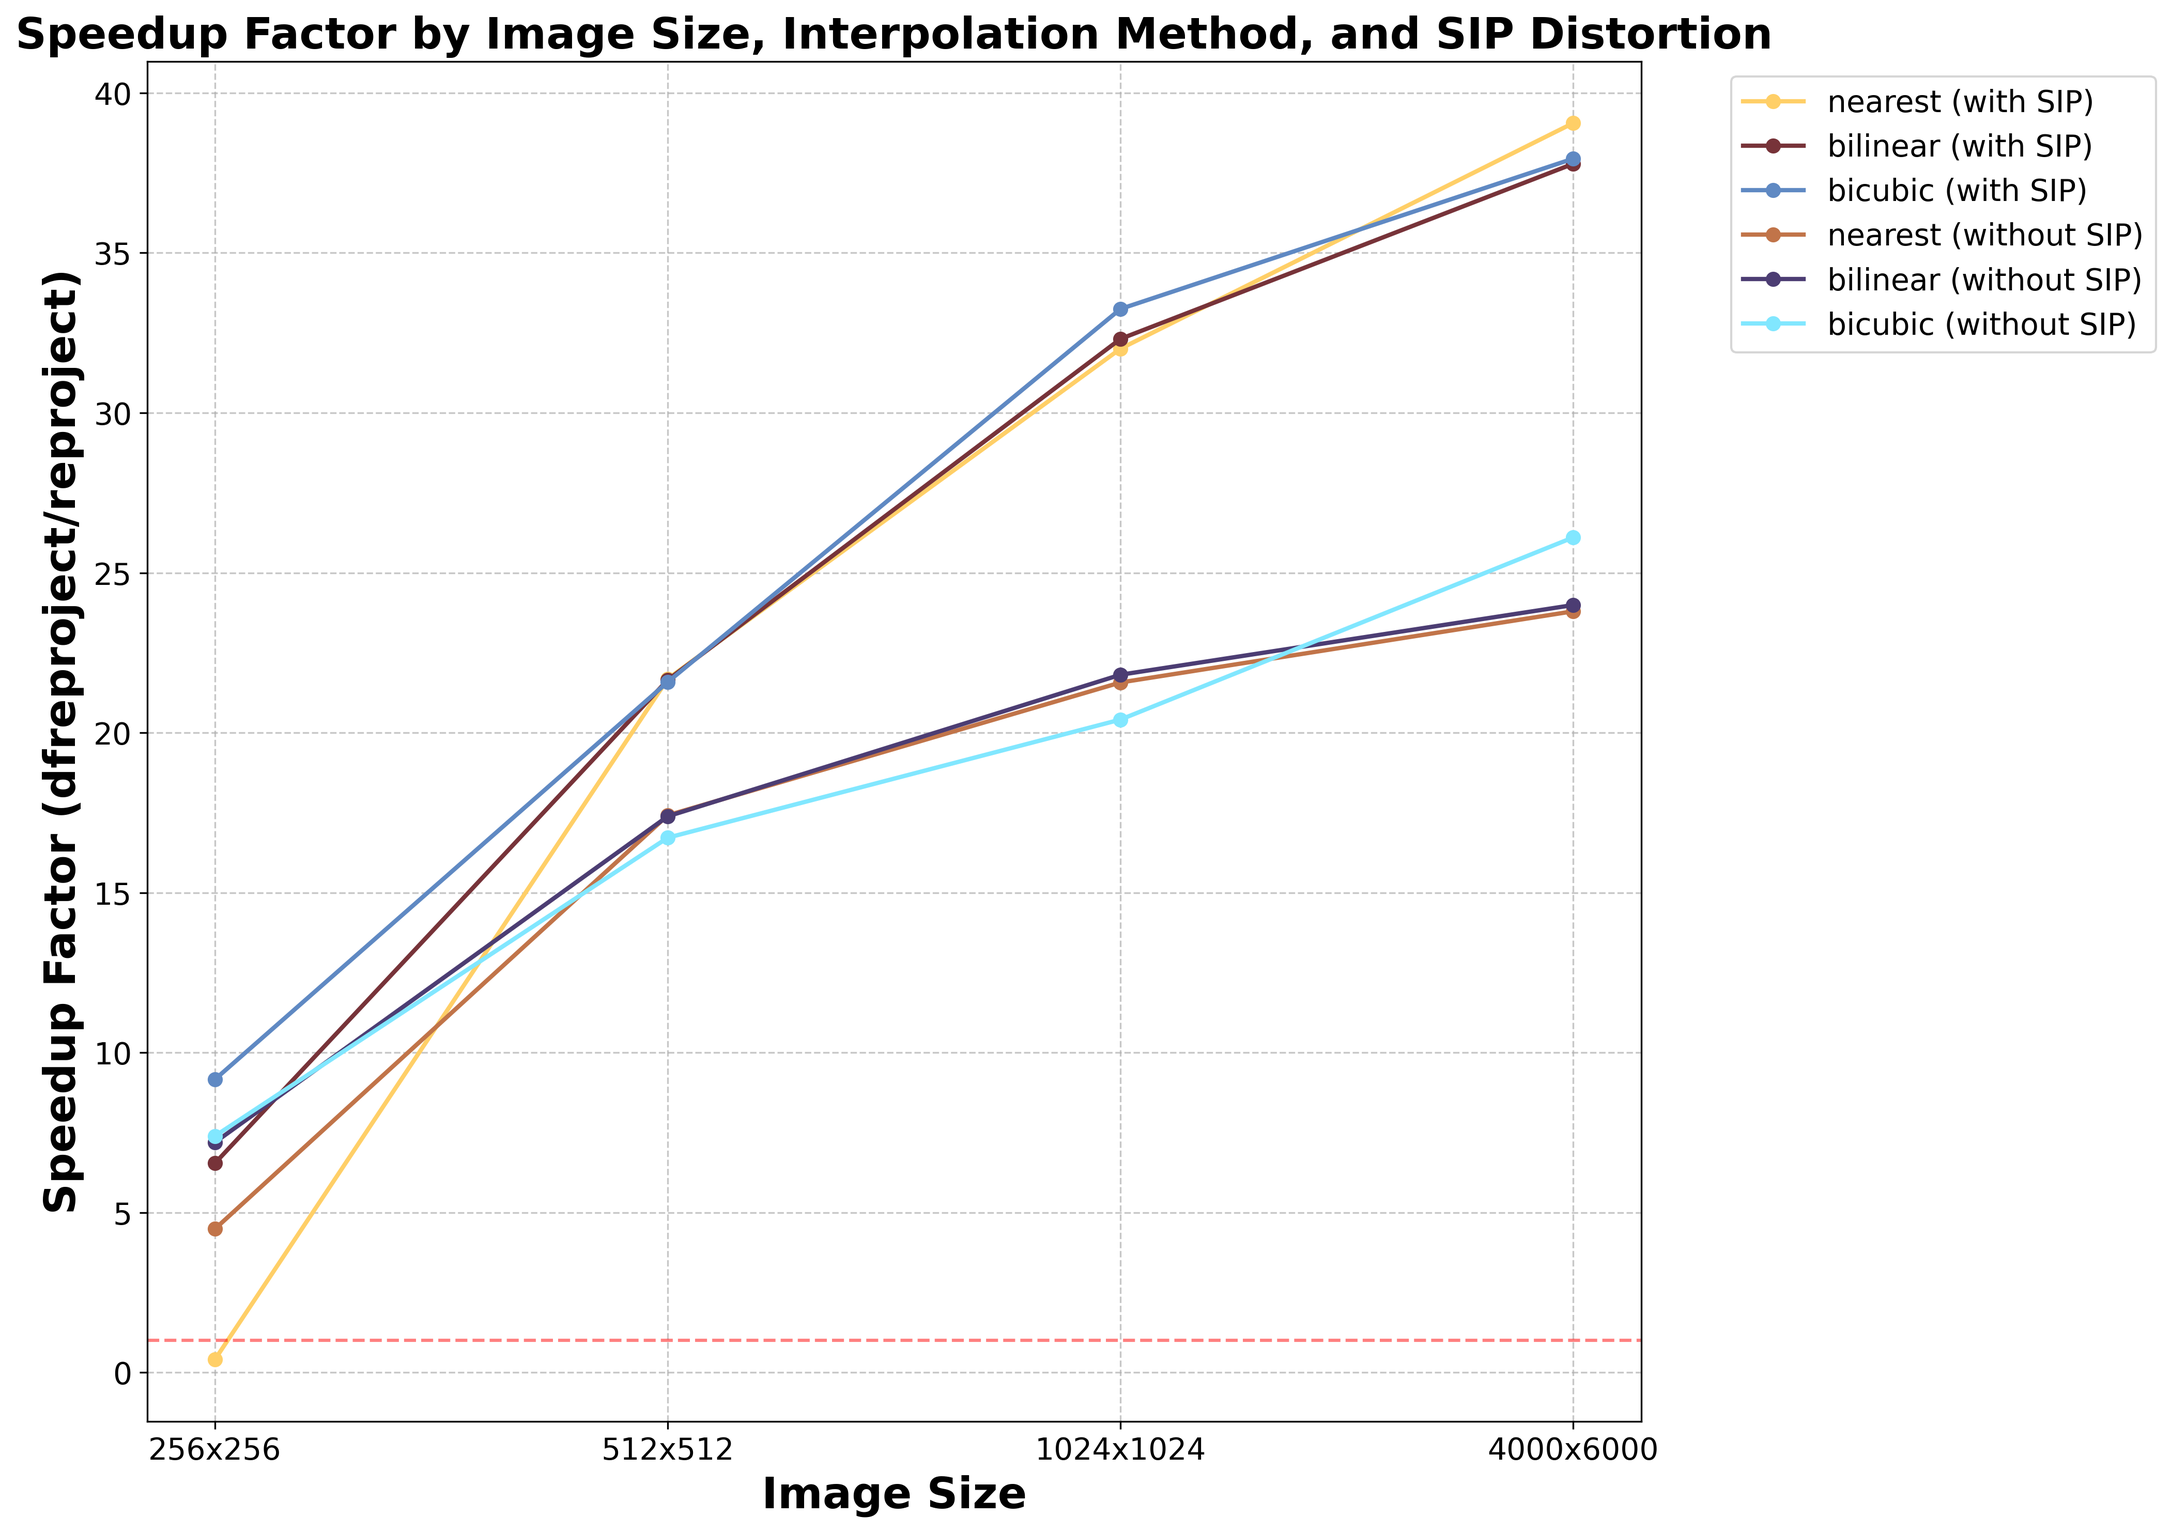
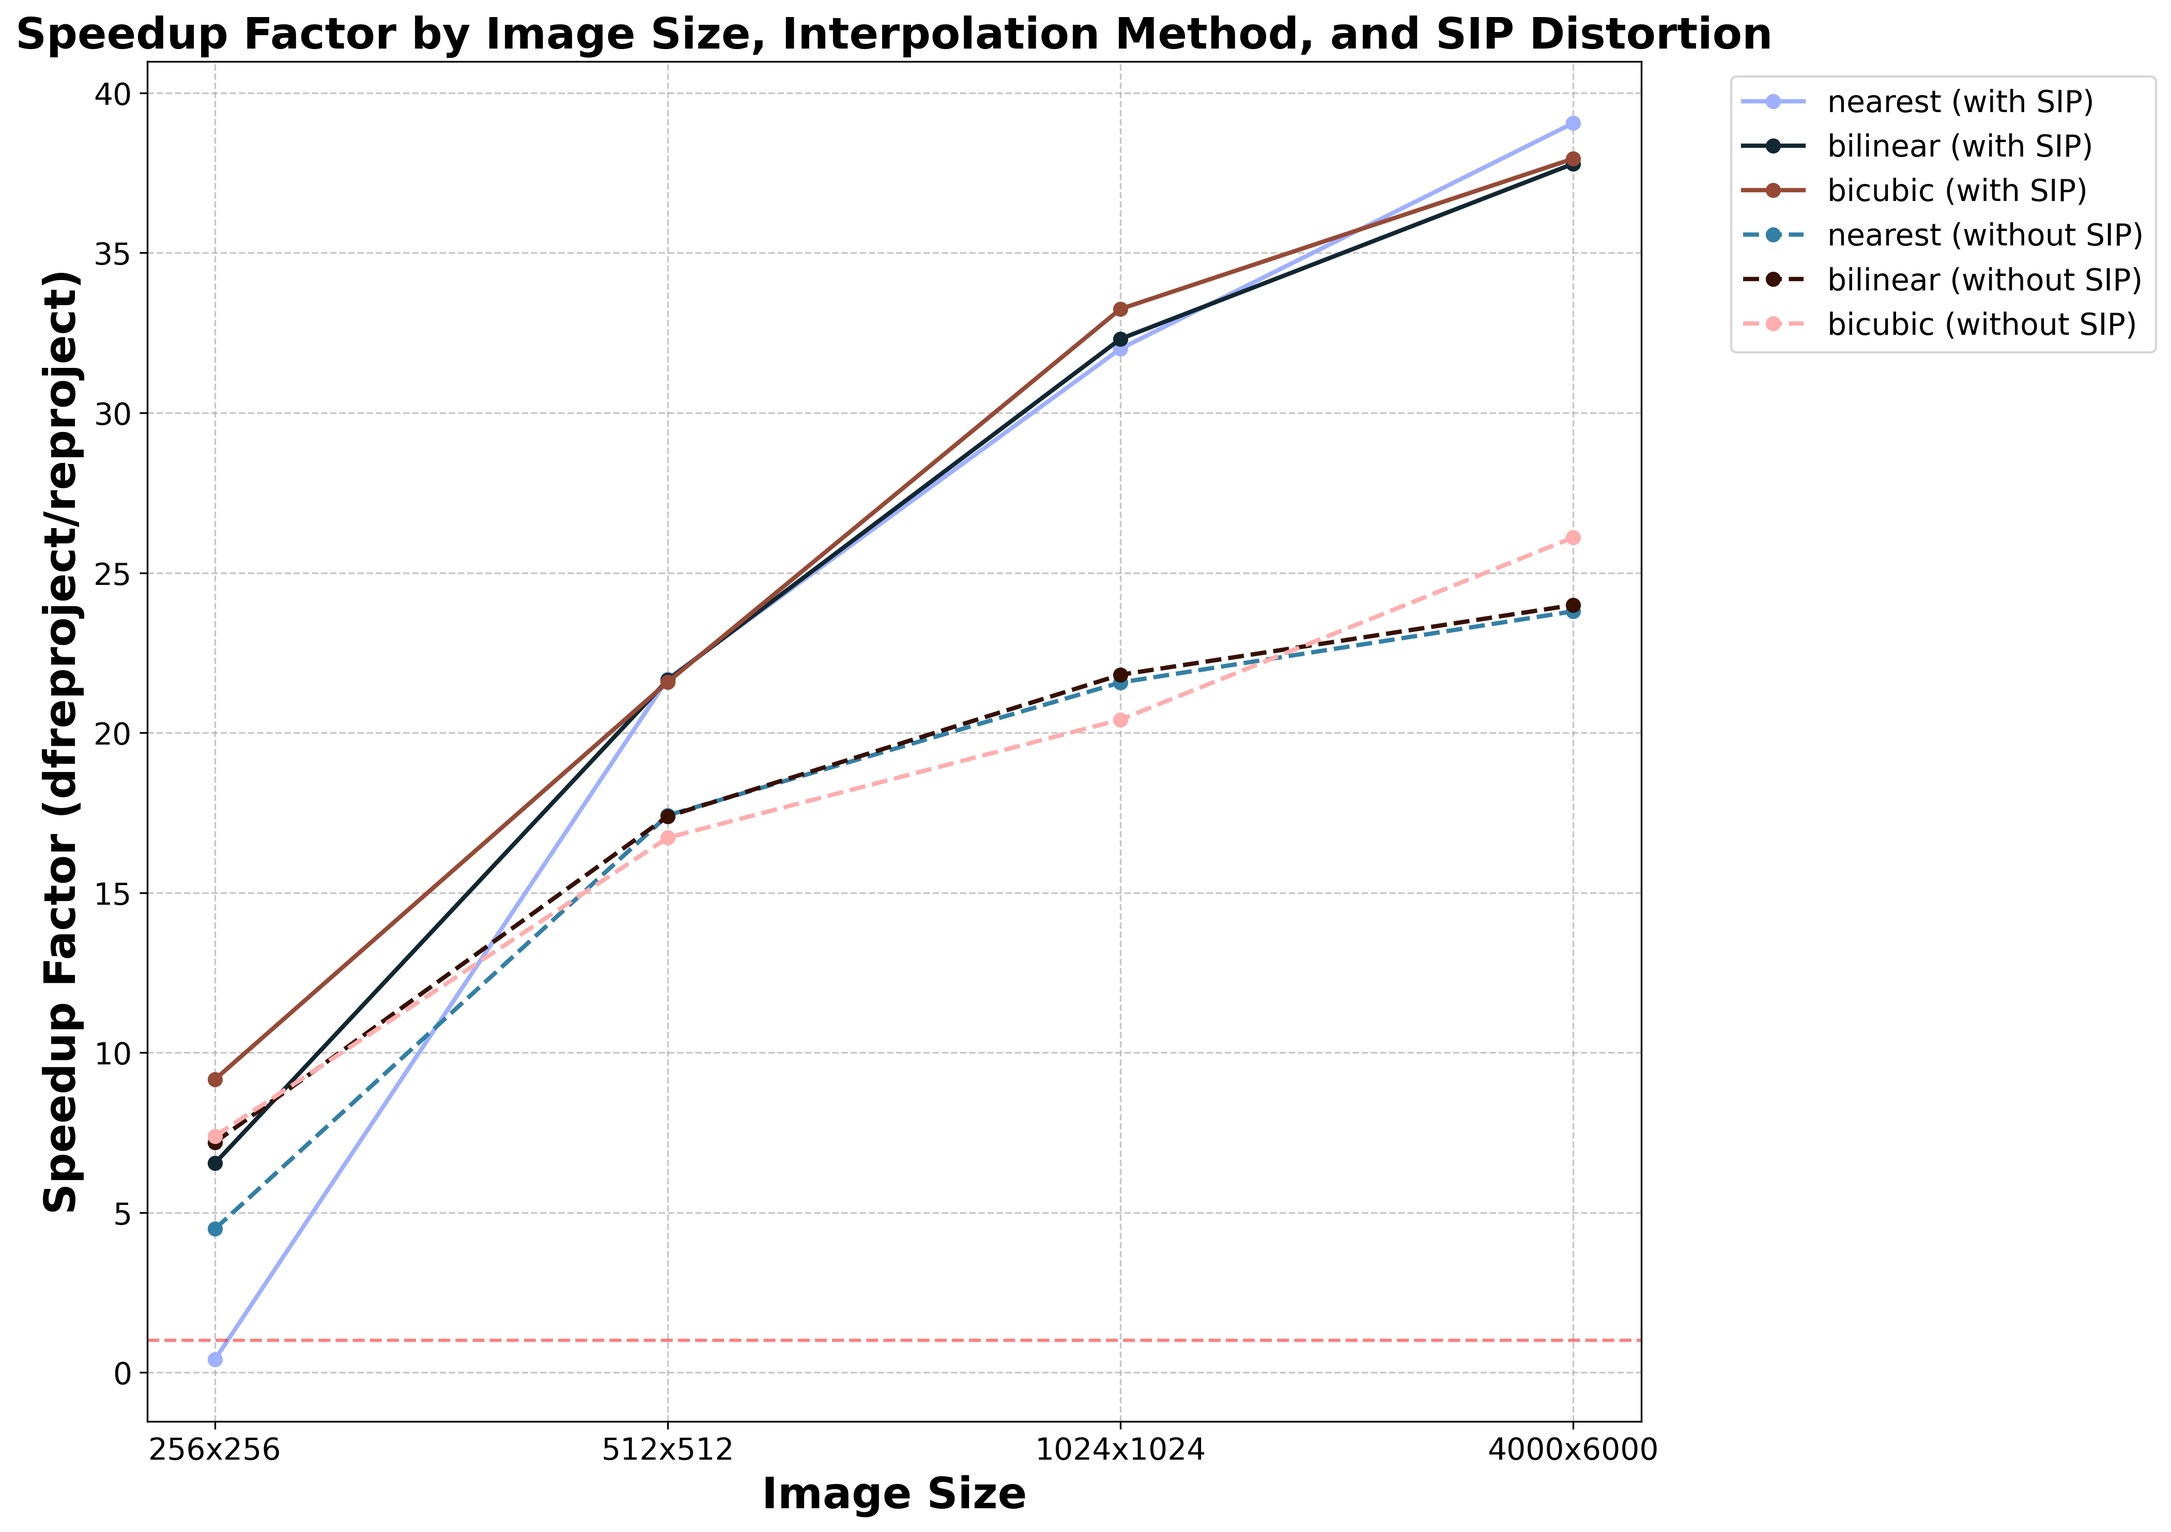
Update paper

diff --git a/demo/benchmarking/benchmark-plotter.py b/demo/benchmarking/benchmark-plotter.py
@@ -176,7 +176,7 @@ def plot_sip_comparison(df, output_file_prefix='sip_comparison'):
     plt.figure(figsize=(12, 8))
     # Convert the colormap to a list of colors for the number of SIP categories
     n_colors = len(df['SIP'].unique())
-    colors = [cmc.managua(i / (n_colors - 1) if n_colors > 1 else 0.5) for i in range(n_colors)]
+    colors = [cmc.batlow(i / (n_colors - 1) if n_colors > 1 else 0.5) for i in range(n_colors)]
     sns.boxplot(x='Interpolation', y='Speedup', hue='SIP', data=df, palette=colors)
     plt.axhline(y=1, color='r', linestyle='--', alpha=0.5)
     plt.title('Distribution of Speedup by Interpolation Method and SIP')
@@ -188,7 +188,7 @@ def plot_sip_comparison(df, output_file_prefix='sip_comparison'):
     # 3. Line plot with SIP as groups
     plt.figure(figsize=(14, 10))
 
-    interp_line_styles = ['-', '--', '-.']
+    interp_line_styles = ['-', '--']
     # Create a grouped line plot for each SIP + interpolation combination
     for sip in df['SIP'].unique():
         sip_data = df[df['SIP'] == sip]
@@ -212,8 +212,8 @@ def plot_sip_comparison(df, output_file_prefix='sip_comparison'):
             plt.plot(filter_data['Image Size'], filter_data['Speedup'], 
                     marker='o', linewidth=2, 
                     label=f"{interp} ({sip})",
-                    color=cmc.managua(color_idx),)
-                     # linestyle=interp_line_styles[interp_idx])
+                    color=cmc.berlin(color_idx),
+                     linestyle=interp_line_styles[sip_idx])
     plt.xticks(fontsize=14)
     plt.yticks(fontsize=14)
     # plt.ylim(3, 50)

diff --git a/paper.md b/paper.md
@@ -12,7 +12,8 @@ authors:
   - name: Pieter Van Dokkum
     equal-contrib: false # (This is how you can denote equal contributions between multiple authors)
     affiliation: 1
-  - name: Steven Janssens
+  - name: Steven R. Janssens
+    orcid: 0000-0003-0327-3322
     affiliation: 1
   - name: Imad Pasha
     affiliation: 1
@@ -30,26 +31,31 @@ bibliography: dfreproject.bib
 ---
 
 # Summary
-Complete astronomical images generally consist of several, if not hundreds, of individual exposures. Each exposure is taken at 
+Coadded astronomical images generally consist of several, if not hundreds, of individual exposures. Each exposure is taken at 
 a different time with minute differences in the positions of stars and other objects in the field due to the movement of the celestial bodies and changes/imperfections in the lense.
-In order to combine, or stack, individual exposures it is required to ensure that each exposure is properly aligned. 
-Traditionally, this is done by reprojecting each exposure onto a common target grid defined in World Coordinate System (WCS).  
+In order to combine individual exposures it is required to ensure that each exposure is properly aligned. 
+Traditionally, this is done by reprojecting each exposure onto a common target grid defined in a World Coordinate System (WCS). 
+
 In this package, we constructed functions that breakdown the coordinate transformations using Gnomonic projection to define 
 the pixel-by-pixel shift from the source plane to the target plane. Additionally, we provide the requisite tools for interpolating the source image onto the target plane.
 With a single function call, the user is able to calculate the complete reprojection of the source image onto the target plane.
 This module follows the FITS and SIP formats layed out in the following papers: [@greisen_representations_2002], [@calabretta_representations_2002], and [@shupe_sip_2005].
-
+We report a speedup of up to 40X when run on a GPU and 15X when run on a CPU compared to common alternatives.
 
 # Statement of need
 
-`dfreproject` is a Python package developed using `PyTorch` [@paszke_pytorch_2019] as the computational backbone for astronomical image reprojection.
-This package was developed out of a need for a fast reprojection code that did not rely on pre-existing WCS calculations (such as those found in `astropy` or `WCSLIB`; [@astropy_collaboration_astropy_2013; @astropy_collaboration_astropy_2018; @astropy_collaboration_astropy_2022]).
+`dfreproject` is a Python package for astronomical image reprojection using `PyTorch` [@paszke_pytorch_2019] as the computational backbone.
+This package was developed out of a need for a fast reprojection code that did not rely on pre-existing WCS calculations such as those found in `astropy` or `WCSLIB` [@astropy_collaboration_astropy_2013; @astropy_collaboration_astropy_2018; @astropy_collaboration_astropy_2022].
 We do however use `astropy.wcs` to read the header information from the input fits files. 
 
-Although several packages already exist for calculating and applying the reprojection of a source image onto a target plane such as 
+Several packages already exist for calculating and applying the reprojection of a source image onto a target plane such as 
 `reproject` [@robitaille_reproject_2020] or `astroalign` [@beroiz_astroalign_2020]. 
 While these packages excel at easy-to-use, general-purpose astronomical image reprojection, they function solely on CPUs and therefore can serve as a computational bottleneck in data reduction pipelines.
-It was with this in mind that we developed `dfreproject`. By leveraging `PyTorch` for vectorization and parallelization via the GPU,
+It was with this in mind that we developed `dfreproject`.
+`dfreproject`'s primary purpose is to reproject the observations taken by the new version of the Dragonfly Telescopic Array, Mothra. 
+Mothra will contain 1000 individual lenses all simulataneously taking exposures with a cadence of a few minutes. 
+Therefore, it is paramount to have a fast and accurate reprojection method.
+By leveraging `PyTorch` for vectorization and parallelization via the GPU,
 we are able to achieve a considerable speedup (up to nearly 40X) over standard methods.
 
 
@@ -58,56 +64,74 @@ we are able to achieve a considerable speedup (up to nearly 40X) over standard m
 
 # Methods
 In order to reproject an image onto a new coordinate plane, we must perform three intermediate calculations. 
-To do this, we use target WCS and source WCS. The steps are as follows:
+To do this, we use the target and source WCS. 
+Before defining the steps, there are a few terms to define:
+- SIP: Standard Imaging Polynomial. This convention allows us to represent non-linear geometric distortions as a simple polynomial.
+The order and coefficients of this polynomial is stored in the header. The SIP is broken down into four individual polynomials, SIP\_A, SIP\_B, SIP\_INV\_A, and SIP\_INV\_B where
+SIP\_A defines the polynomial applied to the x-coordinates, SIP\_B defines the polynomial applied to the y-coordinates, and SIP\_INV\_A and SIP\_INV\_B define the inverse operations.
+For an in-depth discussion on SIP, please see @shupe_sip_2005.
+- CD Matrix: Coordinate Description Matrix. This is  a 2X2 matrix that encodes the rotation, skew, and scaling of the image. 
+The values are conveniently stored in the header. The CD matrix may also be constructed from the PC, Projection Coordinate, matrix multiplied by the CDELT values.
+
+The steps are as follows:
+
 1. For each pixel calculate the corresponding celestial coordinate using the target WCS
+
    1. Apply shift
+   
    2. Apply SIP distortion
+
    3. Apply CD matrix
-   4. Apply transformation to celestial coordinates uing the Gnomonic Projection
+   
+   4. Apply transformation to celestial coordinates using the Gnomonic projection
+
+
 2. Calculate the position in the source grid for each celestial coordinate. This provides the offset for the next step.
-   1. Apply the inverse transformation using the Gnomonic projecction
+
+   1. Apply the inverse transformation using the Gnomonic projection
+
    2. Apply inverse CD matrix
+
    3. Apply inverse SIP distortion
+
    4. Apply shift
+
+
 3. Interpolate the source image onto the newly calculated grid 
 
-In the final interpolation step we include local flux conservation by simulatenously projecting an identity tensor called the footprint.
+In the final interpolation step we include local flux conservation by simultaneously projecting an identity tensor called the footprint.
 The final reprojected frame is normalized by this footprint.
 
 ## Coordinate Transformation
-In this section we describe the coordinate transformation using the Gnomonic projection. Please note that we include an additional shift of 1 pixel to handle the fact that python is 0-based.
-We will be using the following definintions for values: 
+In this section we describe the coordinate transformation using the Gnomonic projection. 
+Please note that we include an additional shift of 1 pixel to handle the fact that Python is 0-based.
+We will be using the following definitions for values: 
 
 $x,y$ - pixel values
 
-$crpix_1, crpix_2$ - center pixels as defined in WCS
-
-$CD$ - CD matrix as defined in WCS. This can also be constructed from  the PC matrix using the following relation $CD = PC * CDELT$ where $CDELT=[cdelt_1, cdelt_2]$.
-
-$SIP\_A, SIP\_B$ - SIP polynomials A and B 
-
-$SIP\_INV\_A, SIP\_INV\_B$ - Inverse SIP polynomials A and B
-
-$dec_0, ra_0$ - Central Declination and Right Ascension as defined in the WCS.
+$\mathrm{crpix}_1, \mathrm{crpix}_2$ - center pixels as defined in WCS
 
 
-All trignometric functions require the values be in radians.
+$\mathrm{dec}_0, \mathrm{ra}_0$ - Central Declination and Right Ascension as defined in the WCS.
+
+
+All trigonometric functions require the values be in radians.
 
 ### To celestial coordinates
 For these calculations, we use the WCS information for the target plane.
 
-$$u = x - (crpix_1 - 1) $$
-$$v = y - (crpix_2 -1) $$
+$$u = x - (\mathrm{crpix}_1 - 1) $$
+$$v = y - (\mathrm{crpix}_2 -1) $$
 
-$$u = u - SIP\_A(u, v)$$
-$$v = v - SIP\_B(u,v)$$
+$$u = u - \mathrm{SIP\_A}(u, v)$$
+$$v = v - \mathrm{SIP\_B}(u,v)$$
 
 $$
 \begin{bmatrix}
 u' \\
 v'
 \end{bmatrix}
- = CD 
+ = \mathrm{CD}
 \begin{bmatrix}
 u \\
 v
@@ -117,19 +141,19 @@ $$r = \sqrt{u'^2 + v'^2}$$
 $$r_0 = \frac{180}{\pi}$$
 $$\phi = atan^2(-u', v')$$
 $$\theta = atan^2(r_0, r) $$
-$$dec = sin^{-1}\Big( sin(\theta)sin(dec_0) + cos(\theta)cos(dec_0)cos(\phi) \Big) $$
-$$ra = ra_0 + atan^2\Big( -cos(\theta)sin(\phi), sin(\theta)cos(dec_0)-cos(\theta)sin(dec_0)cos(\phi) \Big) $$
+$$\mathrm{dec} = \sin^{-1}\Big( \sin(\theta)\sin(dec_0) + \cos(\theta)\cos(dec_0)\cos(\phi) \Big) $$
+$$\mathrm{ra} = \mathrm{ra}_0 + \mathrm{atan}^2\Big( -\cos(\theta)\sin(\phi), \sin(\theta)\cos(dec_0)-\cos(\theta)\sin(dec_0)\cos(\phi) \Big) $$
 
 
 ### To source coordinates
-For these calcuations, we use the WCS ionformation for the source plane.
+For these calculations, we use the WCS information for the source plane.
 
-$$\Delta ra = ra - ra_0$$
-$$\phi = atan^2\Big(-cos(dec)sin(\Delta ra), sin(dec)cos(dec_0)-cos(dec)sin(dec_0)cos(\Delta ra) \Big) $$
-$$\theta = sin^{-1}\Big( sin(dec)sin(dec_0) + cos(dec)cos(dec_0)cos(\Delta ra) \Big) $$
-$$r = r_0\frac{cos(\theta)}{sin(\theta)}$$
-$$u' = -rsin(\phi) $$
-$$v' = rcos(\phi)$$
+$$\Delta \mathrm{ra} = \mathrm{ra} - \mathrm{ra}_0$$
+$$\phi = \mathrm{atan}^2\Big(-\cos(\mathrm{dec})\sin(\Delta \mathrm{ra}), \sin(\mathrm{dec})\cos(\mathrm{dec}_0)-\cos(\mathrm{dec})\sin(\mathrm{dec}_0)\cos(\Delta \mathrm{ra}) \Big) $$
+$$\theta = \sin^{-1}\Big( \sin(\mathrm{dec})\sin(\mathrm{dec}_0) + \cos(\mathrm{dec})\cos(\mathrm{dec}_0)\cos(\Delta \mathrm{ra}) \Big) $$
+$$r = r_0\frac{\cos(\theta)}{\sin(\theta)}$$
+$$u' = -r\sin(\phi) $$
+$$v' = r\cos(\phi)$$
 
 
 
@@ -138,22 +162,22 @@ $$
 u \\
 v
 \end{bmatrix}
- = CD\_INV
+ = \mathrm{CD\_INV}
 \begin{bmatrix}
 u' \\
 v'
 \end{bmatrix}
 $$
 
-$$u = u - SIP\_INV\_A(u, v)$$
-$$v = v - SIP\_INV\_B(u, v)$$
+$$u = u - \mathrm{SIP\_INV\_A}(u, v)$$
+$$v = v - \mathrm{SIP\_INV\_B}(u, v)$$
 
-$$x = u + (crpix_1 - 1)$$
-$$y = v + (crpix_2 - 1)$$
+$$x = u + (\mathrm{crpix}_1 - 1)$$
+$$y = v + (\mathrm{crpix}_2 - 1)$$
 
 ## Demo
-For this demonstration we created two small (50x50) fits files (see `demo/create_test_data::create_fits_file_tiny`) with a several pixel offset.
-In figure \autoref{fig:demo}, you can see the original image, the `dfreproject` solution, the `reproject` solution, and the relative error between the two.
+For this demonstration we created two small (50x50) FITS files (see `demo/create_test_data::create_fits_file_tiny.py`) with a several pixel offset.
+In \autoref{fig:demo} from left to right, we show the original image, the `dfreproject` solution, the `reproject` solution, and the relative error between the two.
 For both solutions, we use a nearest-neighbor interpolation scheme.
 
 
@@ -162,8 +186,9 @@ For both solutions, we use a nearest-neighbor interpolation scheme.
 
 ## Speed Comparison
 In order to compare the execution times, we created a benchmarking script (that can be found in the demos/benchmarking directory under `benchmark_script.py`).
-We benchmark the three interpolation schemes with and without SIP distortion for images sized 256x256, 512x512, 1024x1024, and 4000x600.
-Figure \autoref{fig:gpu-comparison} shows the results of this benchmarking when `dfreproject` is run using a GPU (NVIDIA GeForce RTX 4060).
+This test is run between `dfreproject` and `reproject`.
+We benchmark the three interpolation schemes with and without SIP distortion for images sized 256x256, 512x512, 1024x1024, and 4000x6000\footnote{this matches the size of Dragonfly images}.
+\autoref{fig:gpu-comparison} shows the results of this benchmarking when `dfreproject` is run using a GPU (NVIDIA GeForce RTX 4060).
 
 
 ![\label{fig:gpu-comparison}](demo/benchmarking/sip_comparison_line_gpu.png)
@@ -172,7 +197,7 @@ Figure \autoref{fig:gpu-comparison} shows the results of this benchmarking when 
 As evidenced by this figure, `dfreproject` has a significant speed advantage over `reproject` for larger images regardless of the type of interpolation scheme. 
 The speedup is most pronounced in the case of where SIP distortions are included.
 
-In figure \autoref{fig:cpu-comparison}, we display the same results except we used a CPU (Intel® Core™ i9-14900HX).
+In \autoref{fig:cpu-comparison}, we display the same results except we used a CPU (Intel® Core™ i9-14900HX).
 
 
 ![\label{fig:cpu-comparison}](demo/benchmarking/sip_comparison_line_cpu.png)
